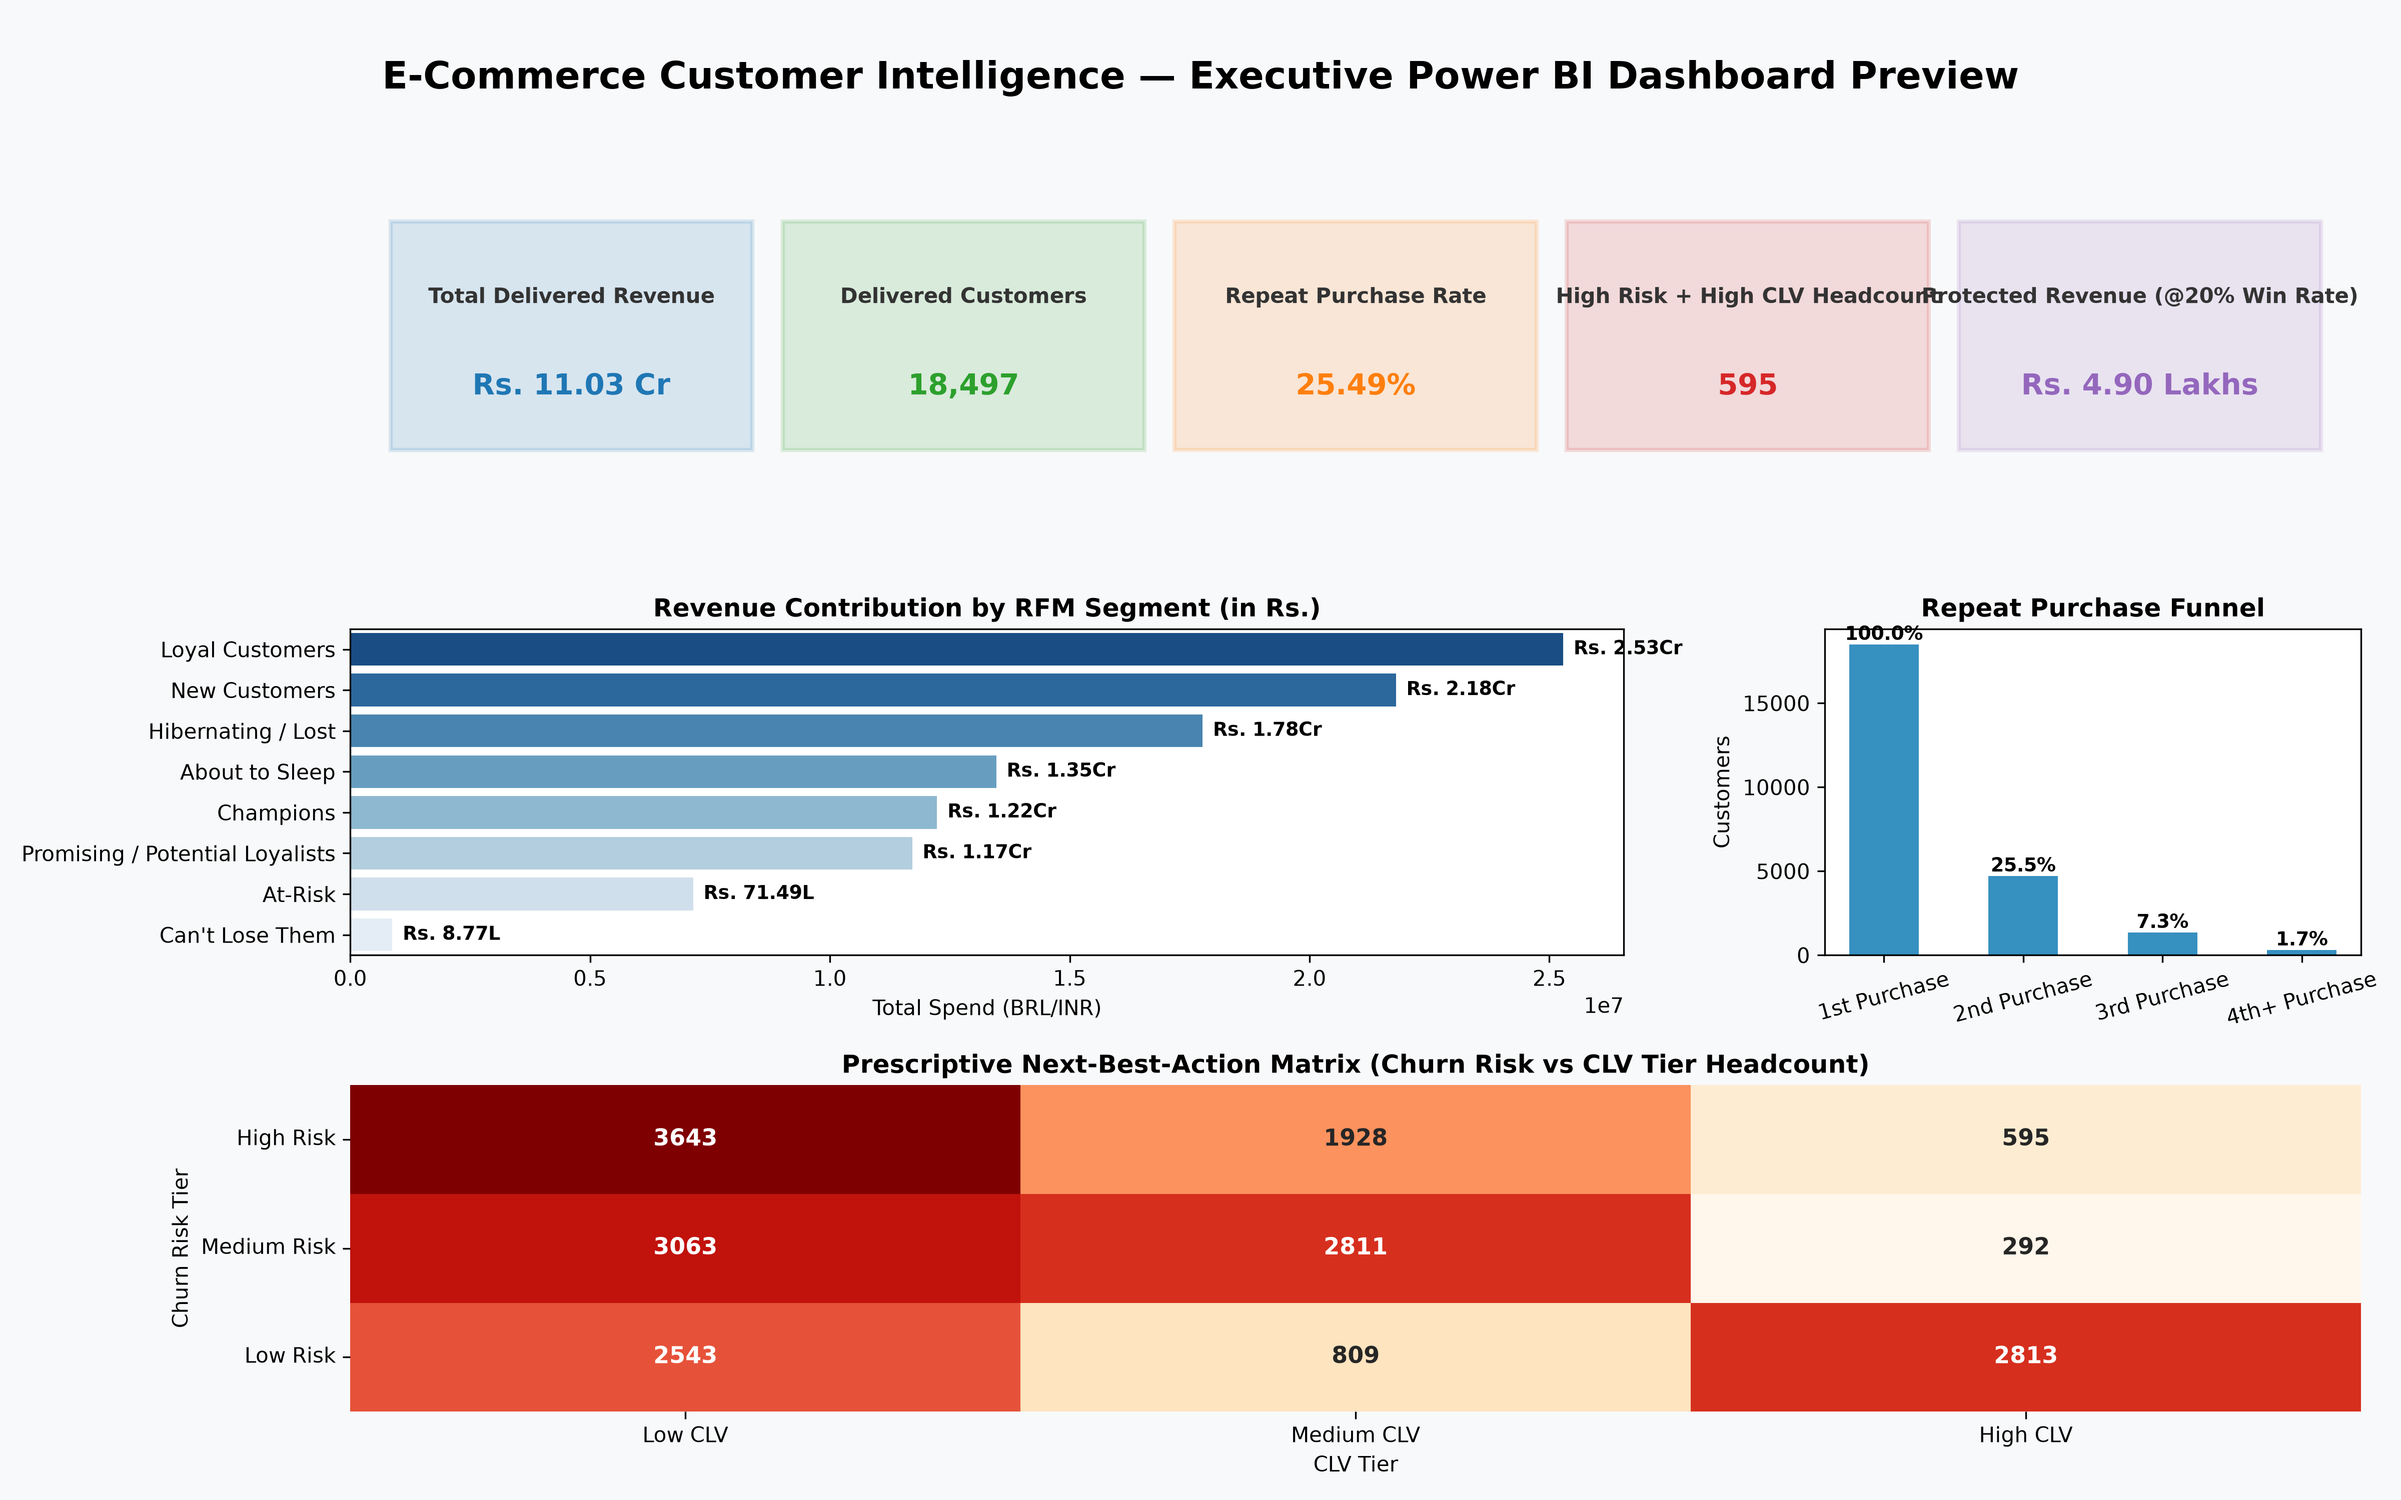
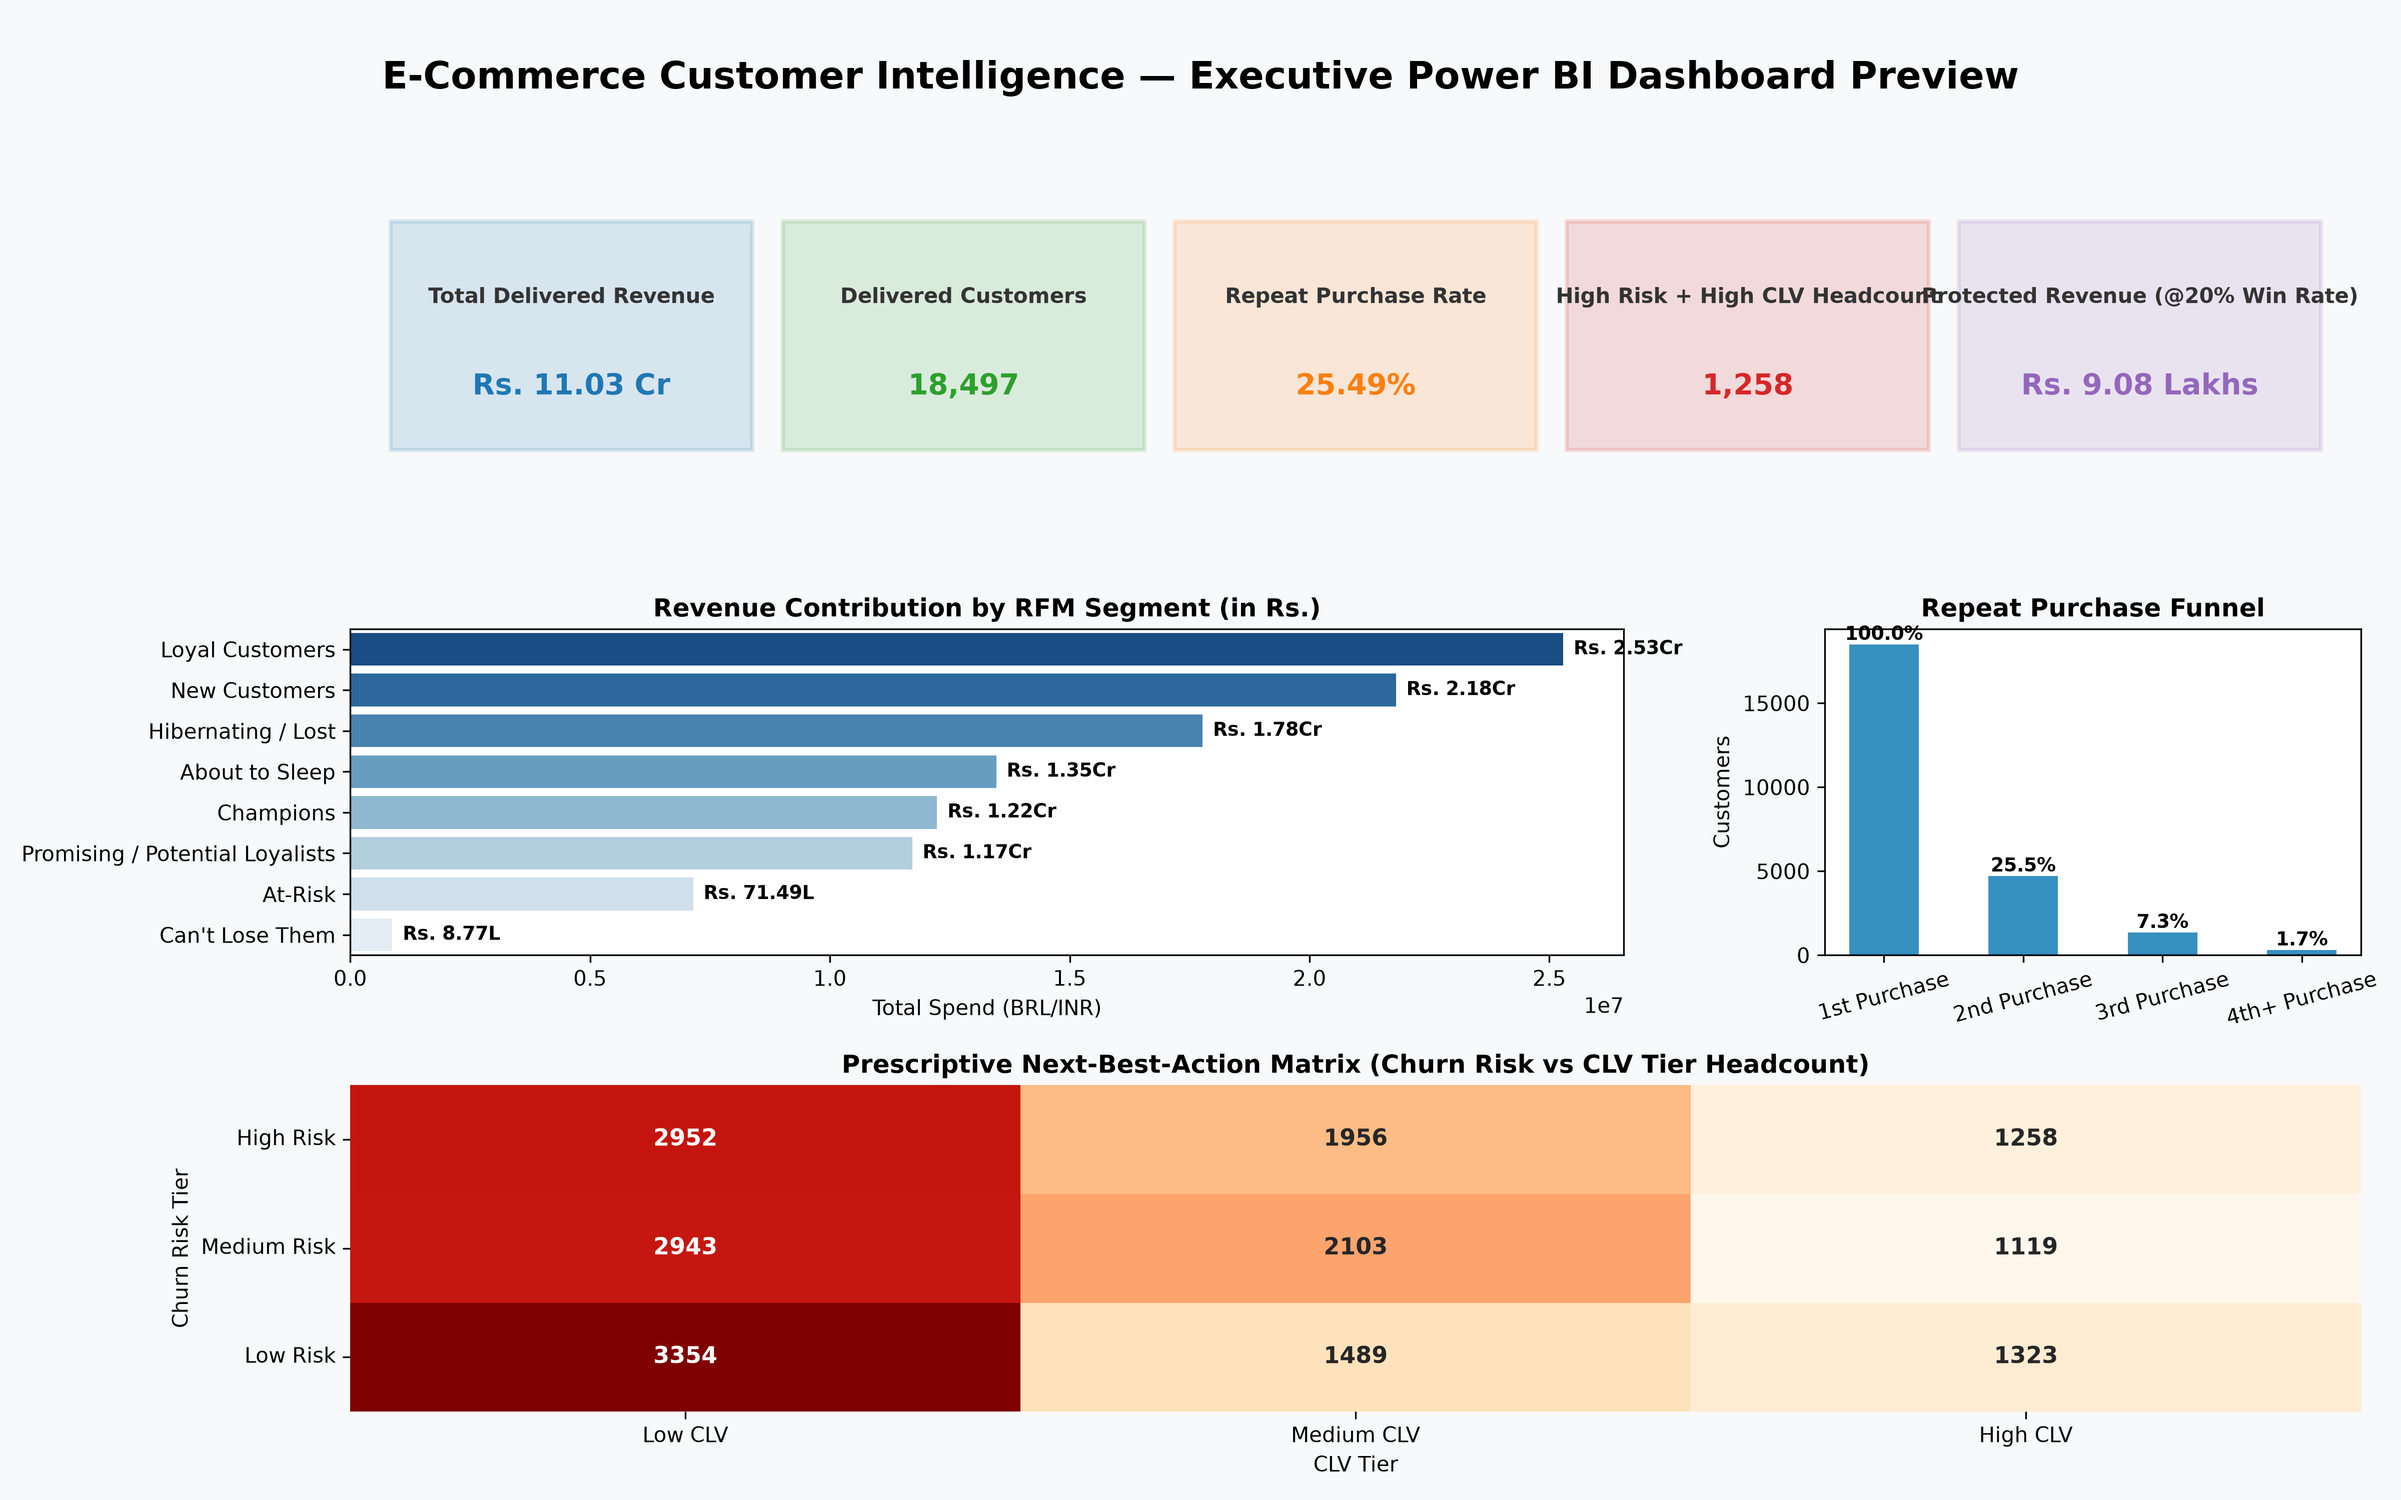
fix(clv): resolve single-order GammaGamma negative prediction bug, update 3x3 matrices and positive revenue simulation

diff --git a/generate_indian_notebook.py b/generate_indian_notebook.py
@@ -531,11 +531,19 @@ ggf = GammaGammaFitter(penalizer_coef=0.001)
 ggf.fit(returning_customers['frequency'], returning_customers['monetary_value'])
 
 overall_avg_order = fact_df['order_total_amount'].mean()
-clv_summary['expected_avg_order_value'] = ggf.conditional_expected_average_profit(
+raw_exp_monetary = ggf.conditional_expected_average_profit(
     clv_summary['frequency'], clv_summary['monetary_value']
-).fillna(overall_avg_order)
+)
 
-clv_summary['predicted_clv_12m'] = clv_summary['predicted_purchases_12m'] * clv_summary['expected_avg_order_value']
+# Fix: For single-order customers (frequency == 0), GammaGamma prediction is undefined (q < 1 yields negative values).
+# Assign overall_avg_order for single-order customers and clip predicted_clv_12m at 0.0 minimum.
+clv_summary['expected_avg_order_value'] = np.where(
+    clv_summary['frequency'] > 0,
+    raw_exp_monetary,
+    overall_avg_order
+)
+
+clv_summary['predicted_clv_12m'] = (clv_summary['predicted_purchases_12m'] * clv_summary['expected_avg_order_value']).clip(lower=0.0)
 
 # Assign CLV Tiers: High (Top 20%), Medium (Middle 30%), Low (Bottom 50%)
 clv_summary['clv_tier'] = pd.qcut(

diff --git a/generate_dashboard_preview.py b/generate_dashboard_preview.py
@@ -14,9 +14,9 @@ funnel_df = pd.DataFrame({
 })
 matrix_df = pd.DataFrame({
     'CLV_Tier': ['Low CLV', 'Medium CLV', 'High CLV'],
-    'High Risk': [3643, 1928, 595],
-    'Medium Risk': [3063, 2811, 292],
-    'Low Risk': [2543, 809, 2813]
+    'High Risk': [2952, 1956, 1258],
+    'Medium Risk': [2943, 2103, 1119],
+    'Low Risk': [3354, 1489, 1323]
 }).set_index('CLV_Tier')
 
 fig = plt.figure(figsize=(16, 10), facecolor='#f8f9fa')
@@ -30,8 +30,8 @@ kpis = [
     ('Total Delivered Revenue', 'Rs. 11.03 Cr', '#1f77b4'),
     ('Delivered Customers', '18,497', '#2ca02c'),
     ('Repeat Purchase Rate', '25.49%', '#ff7f0e'),
-    ('High Risk + High CLV Headcount', '595', '#d62728'),
-    ('Protected Revenue (@20% Win Rate)', 'Rs. 4.90 Lakhs', '#9467bd')
+    ('High Risk + High CLV Headcount', '1,258', '#d62728'),
+    ('Protected Revenue (@20% Win Rate)', 'Rs. 9.08 Lakhs', '#9467bd')
 ]
 
 for idx, (title, val, color) in enumerate(kpis):

diff --git a/EXECUTIVE_SUMMARY.md b/EXECUTIVE_SUMMARY.md
@@ -33,19 +33,19 @@ Acquisition-focused growth without post-purchase retention leads to leaky-bucket
 
 | Customer Segment | Risk & Value Quadrant | Headcount | Prescriptive Strategy & Action | Projected Impact |
 | :--- | :--- | :---: | :--- | :--- |
-| **High Risk + High CLV** | Critical At-Risk VIPs | **595** | **VIP Urgent Retention:** Dedicated concierge outreach + ₹1,500 exclusive category voucher. | Protects **₹4.90 Lakhs** in annual revenue @ 20% win rate (out of ₹24.48L total risk). |
-| **High Risk + Medium CLV** | Win-Back Targets | **1,928** | **Automated Win-Back Campaign:** Targeted 15% category discount offer. | Re-engages mid-tier buyers before complete dormancy. |
-| **High Risk + Low CLV** | Low-Value Churners | **3,643** | **Low-Cost Push Notification Series:** Automated lifecycle notifications. | Zero discount spend passive re-engagement. |
-| **Medium Risk + High CLV** | High-Potential Growth | **292** | **Proactive Engagement & Cross-Sell:** Product recommendations + category discovery. | Safeguards **₹8.53 Lakhs** total expected CLV. |
-| **Low Risk + High CLV** | Brand Champions | **2,813** | **VIP Loyalty Program:** Early sale access, priority delivery, & rewards. | Protects **₹48.42 Lakhs** top spender CLV & advocacy. |
+| **High Risk + High CLV** | Critical At-Risk VIPs | **1,258** | **VIP Urgent Retention:** Dedicated concierge outreach + ₹1,500 exclusive category voucher. | Protects **₹9.08 Lakhs** in annual revenue @ 20% win rate (out of ₹45.40L total risk). |
+| **High Risk + Medium CLV** | Win-Back Targets | **1,956** | **Automated Win-Back Campaign:** Targeted 15% category discount offer. | Re-engages mid-tier buyers before complete dormancy (₹21.35L total risk). |
+| **High Risk + Low CLV** | Low-Value Churners | **2,952** | **Low-Cost Push Notification Series:** Automated lifecycle notifications. | Zero discount spend passive re-engagement (₹14.78L total risk). |
+| **Medium Risk + High CLV** | High-Potential Growth | **1,119** | **Proactive Engagement & Cross-Sell:** Product recommendations + category discovery. | Safeguards **₹25.90 Lakhs** total expected CLV. |
+| **Low Risk + High CLV** | Brand Champions | **1,323** | **VIP Loyalty Program:** Early sale access, priority delivery, & rewards. | Protects **₹31.79 Lakhs** top spender CLV & advocacy. |
 
 ---
 
 ## 💰 Projected Financial Impact
-By executing the **VIP Urgent Retention Strategy** on the 595 High Risk + High CLV customers (avg. expected spend ₹4,113.49):
-- **At 10% Campaign Win Rate:** Protects **₹2.45 Lakhs** in annual net revenue.
-- **At 20% Campaign Win Rate:** Protects **₹4.90 Lakhs** in annual net revenue.
-- **At 30% Campaign Win Rate:** Protects **₹7.34 Lakhs** in annual net revenue.
+By executing the **VIP Urgent Retention Strategy** on the 1,258 High Risk + High CLV customers (avg. expected spend ₹3,609.12):
+- **At 10% Campaign Win Rate:** Protects **₹4.54 Lakhs** in annual net revenue.
+- **At 20% Campaign Win Rate:** Protects **₹9.08 Lakhs** in annual net revenue.
+- **At 30% Campaign Win Rate:** Protects **₹13.62 Lakhs** in annual net revenue.
 
 ---
 

diff --git a/README.md b/README.md
@@ -91,9 +91,9 @@ D:\Ssshhhh\Projexts\E commerce\
 
 | Churn Risk Tier | Low CLV (Bottom 50%) | Medium CLV (Middle 30%) | High CLV (Top 20%) | Action Strategy | Total Headcount |
 | :--- | :---: | :---: | :---: | :--- | :---: |
-| **High Risk** (Top 33.3%) | 3,643 | 1,928 | **595** | **High CLV:** VIP Concierge Call + ₹1,500 Voucher<br>**Med CLV:** Win-Back 15% Discount Offer<br>**Low CLV:** Automated Low-Cost Push Series | **6,166** |
-| **Medium Risk** (Middle 33.3%) | 3,063 | 2,811 | 292 | Proactive Product Cross-Sell & Engagement | **6,166** |
-| **Low Risk** (Bottom 33.3%) | 2,543 | 809 | 2,813 | VIP Loyalty Program & Early Sale Access | **6,165** |
+| **High Risk** (Top 33.3%) | 2,952 | 1,956 | **1,258** | **High CLV:** VIP Concierge Call + ₹1,500 Voucher<br>**Med CLV:** Win-Back 15% Discount Offer<br>**Low CLV:** Automated Low-Cost Push Series | **6,166** |
+| **Medium Risk** (Middle 33.3%) | 2,943 | 2,103 | 1,119 | Proactive Product Cross-Sell & Engagement | **6,165** |
+| **Low Risk** (Bottom 33.3%) | 3,354 | 1,489 | 1,323 | VIP Loyalty Program & Early Sale Access | **6,166** |
 | **Total Customer Headcount** | **9,249** | **5,548** | **3,700** | **All Scored Delivered Customers** | **18,497** |
 
 ---
